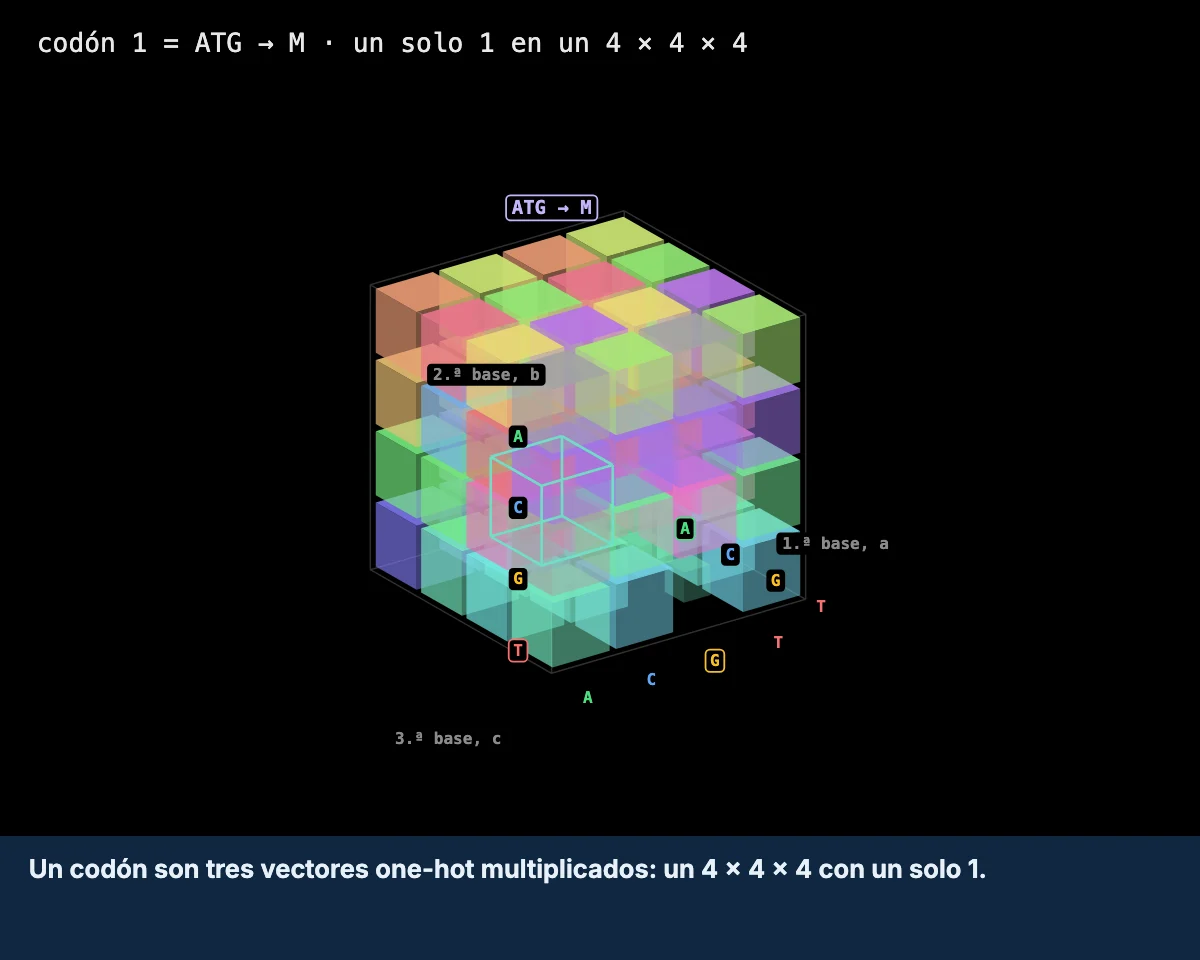
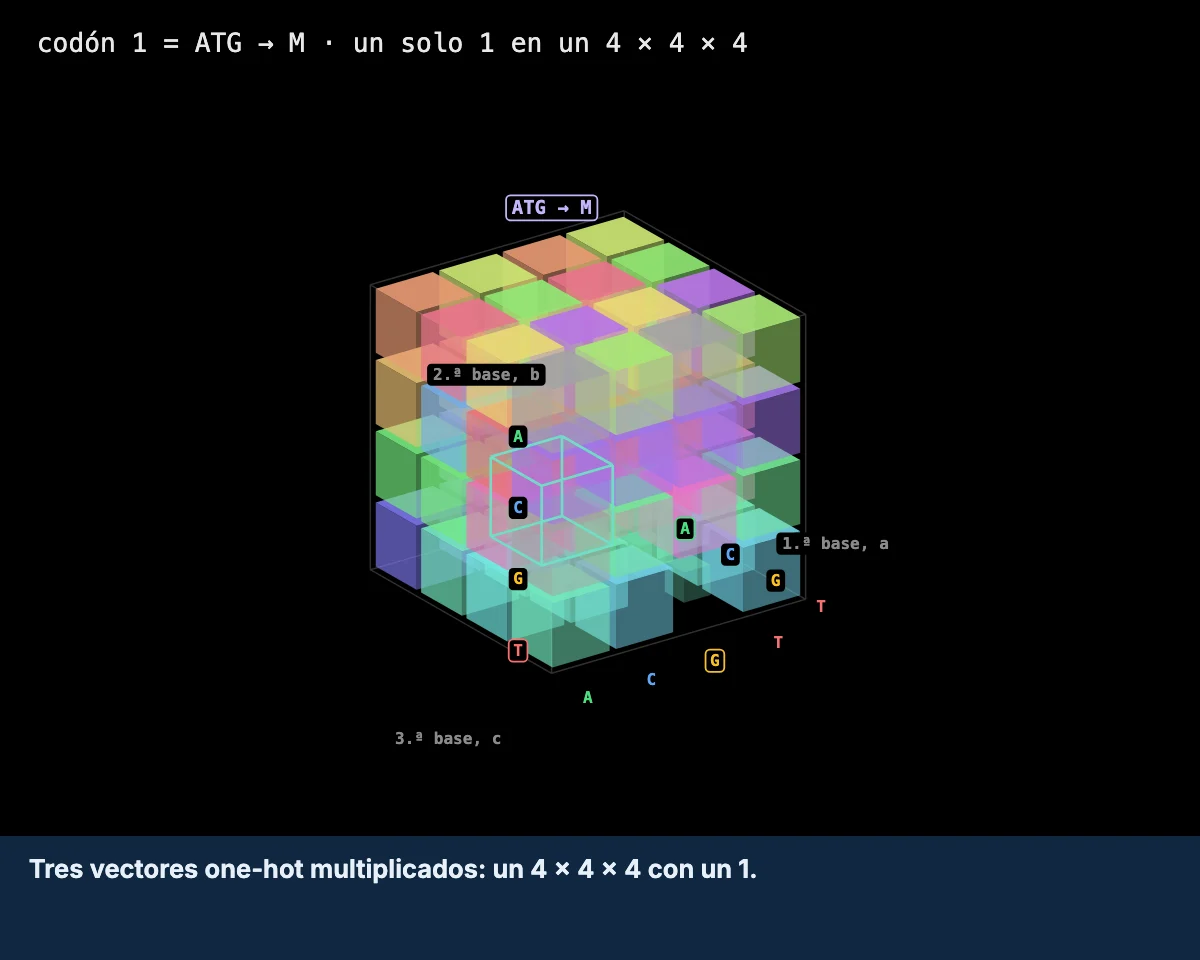
Stop the genome embed's caption running under the hero's cue (#217)
On the live homepage the "Try it live" pill sat on top of the last few words
of the genome panel's caption. The caption is baked into the still, so nothing
in the browser could measure the collision -- the pill is hero CSS over a
picture, and both were individually fine.

The cause is simply length. The other six embed captions run 43 to 67
characters; this one was 90, and the overflow is exactly where the pill sits.
It is now 69, in line with the rest.

While there: the hero caption under the panel repeated the embed's sentence
word for word, where every other panel says something the picture does not.
It now points at what the cube is actually showing -- six codons for leucine,
one for methionine -- which is the redundancy the scene exists to make visible.

Checked by regenerating the stills and looking at the panel again, plus the
hero shard, the widget shard, 215 tests and all fourteen link checks.

Changed region(s): [[0.0308, 0.875, 0.555, 0.9375], [0.5858, 0.875, 0.8017, 0.9375]]

diff --git a/interactive/genome-stage.html b/interactive/genome-stage.html
@@ -587,7 +587,7 @@
       glNoScript: "Three-dimensional view unavailable, so this picture is drawn flat. Every number is the same.",
       glNoWebgl: "This browser reports no WebGL, so this picture is drawn flat. Every number is the same.",
       glSlow: "Glow is off: this device was not keeping up with it. Re-tick the box to try again.",
-      embedCap: "A codon is three one-hot vectors multiplied together: a 4 \u00d7 4 \u00d7 4 holding one 1.",
+      embedCap: "Three one-hot vectors multiplied: a 4 \u00d7 4 \u00d7 4 holding one 1.",
       shape: "Shape", concept: "Concept", code: "In NumPy",
       aboutH: "About this page",
       about1: "Nothing is fetched: every number here is computed in the browser from two short strings " +
@@ -641,7 +641,7 @@
       glNoScript: "La vista tridimensional no est\u00e1 disponible, as\u00ed que esta imagen se dibuja plana. Todos los n\u00fameros son los mismos.",
       glNoWebgl: "Este navegador no reporta WebGL, as\u00ed que esta imagen se dibuja plana. Todos los n\u00fameros son los mismos.",
       glSlow: "El brillo est\u00e1 desactivado: este dispositivo no lo segu\u00eda bien. Vuelve a marcar la casilla para intentarlo de nuevo.",
-      embedCap: "Un cod\u00f3n son tres vectores one-hot multiplicados: un 4 \u00d7 4 \u00d7 4 con un solo 1.",
+      embedCap: "Tres vectores one-hot multiplicados: un 4 \u00d7 4 \u00d7 4 con un 1.",
       shape: "Forma", concept: "Concepto", code: "En NumPy",
       aboutH: "Sobre esta p\u00e1gina",
       about1: "No se descarga nada: cada n\u00famero de aqu\u00ed se calcula en el navegador a partir " +
